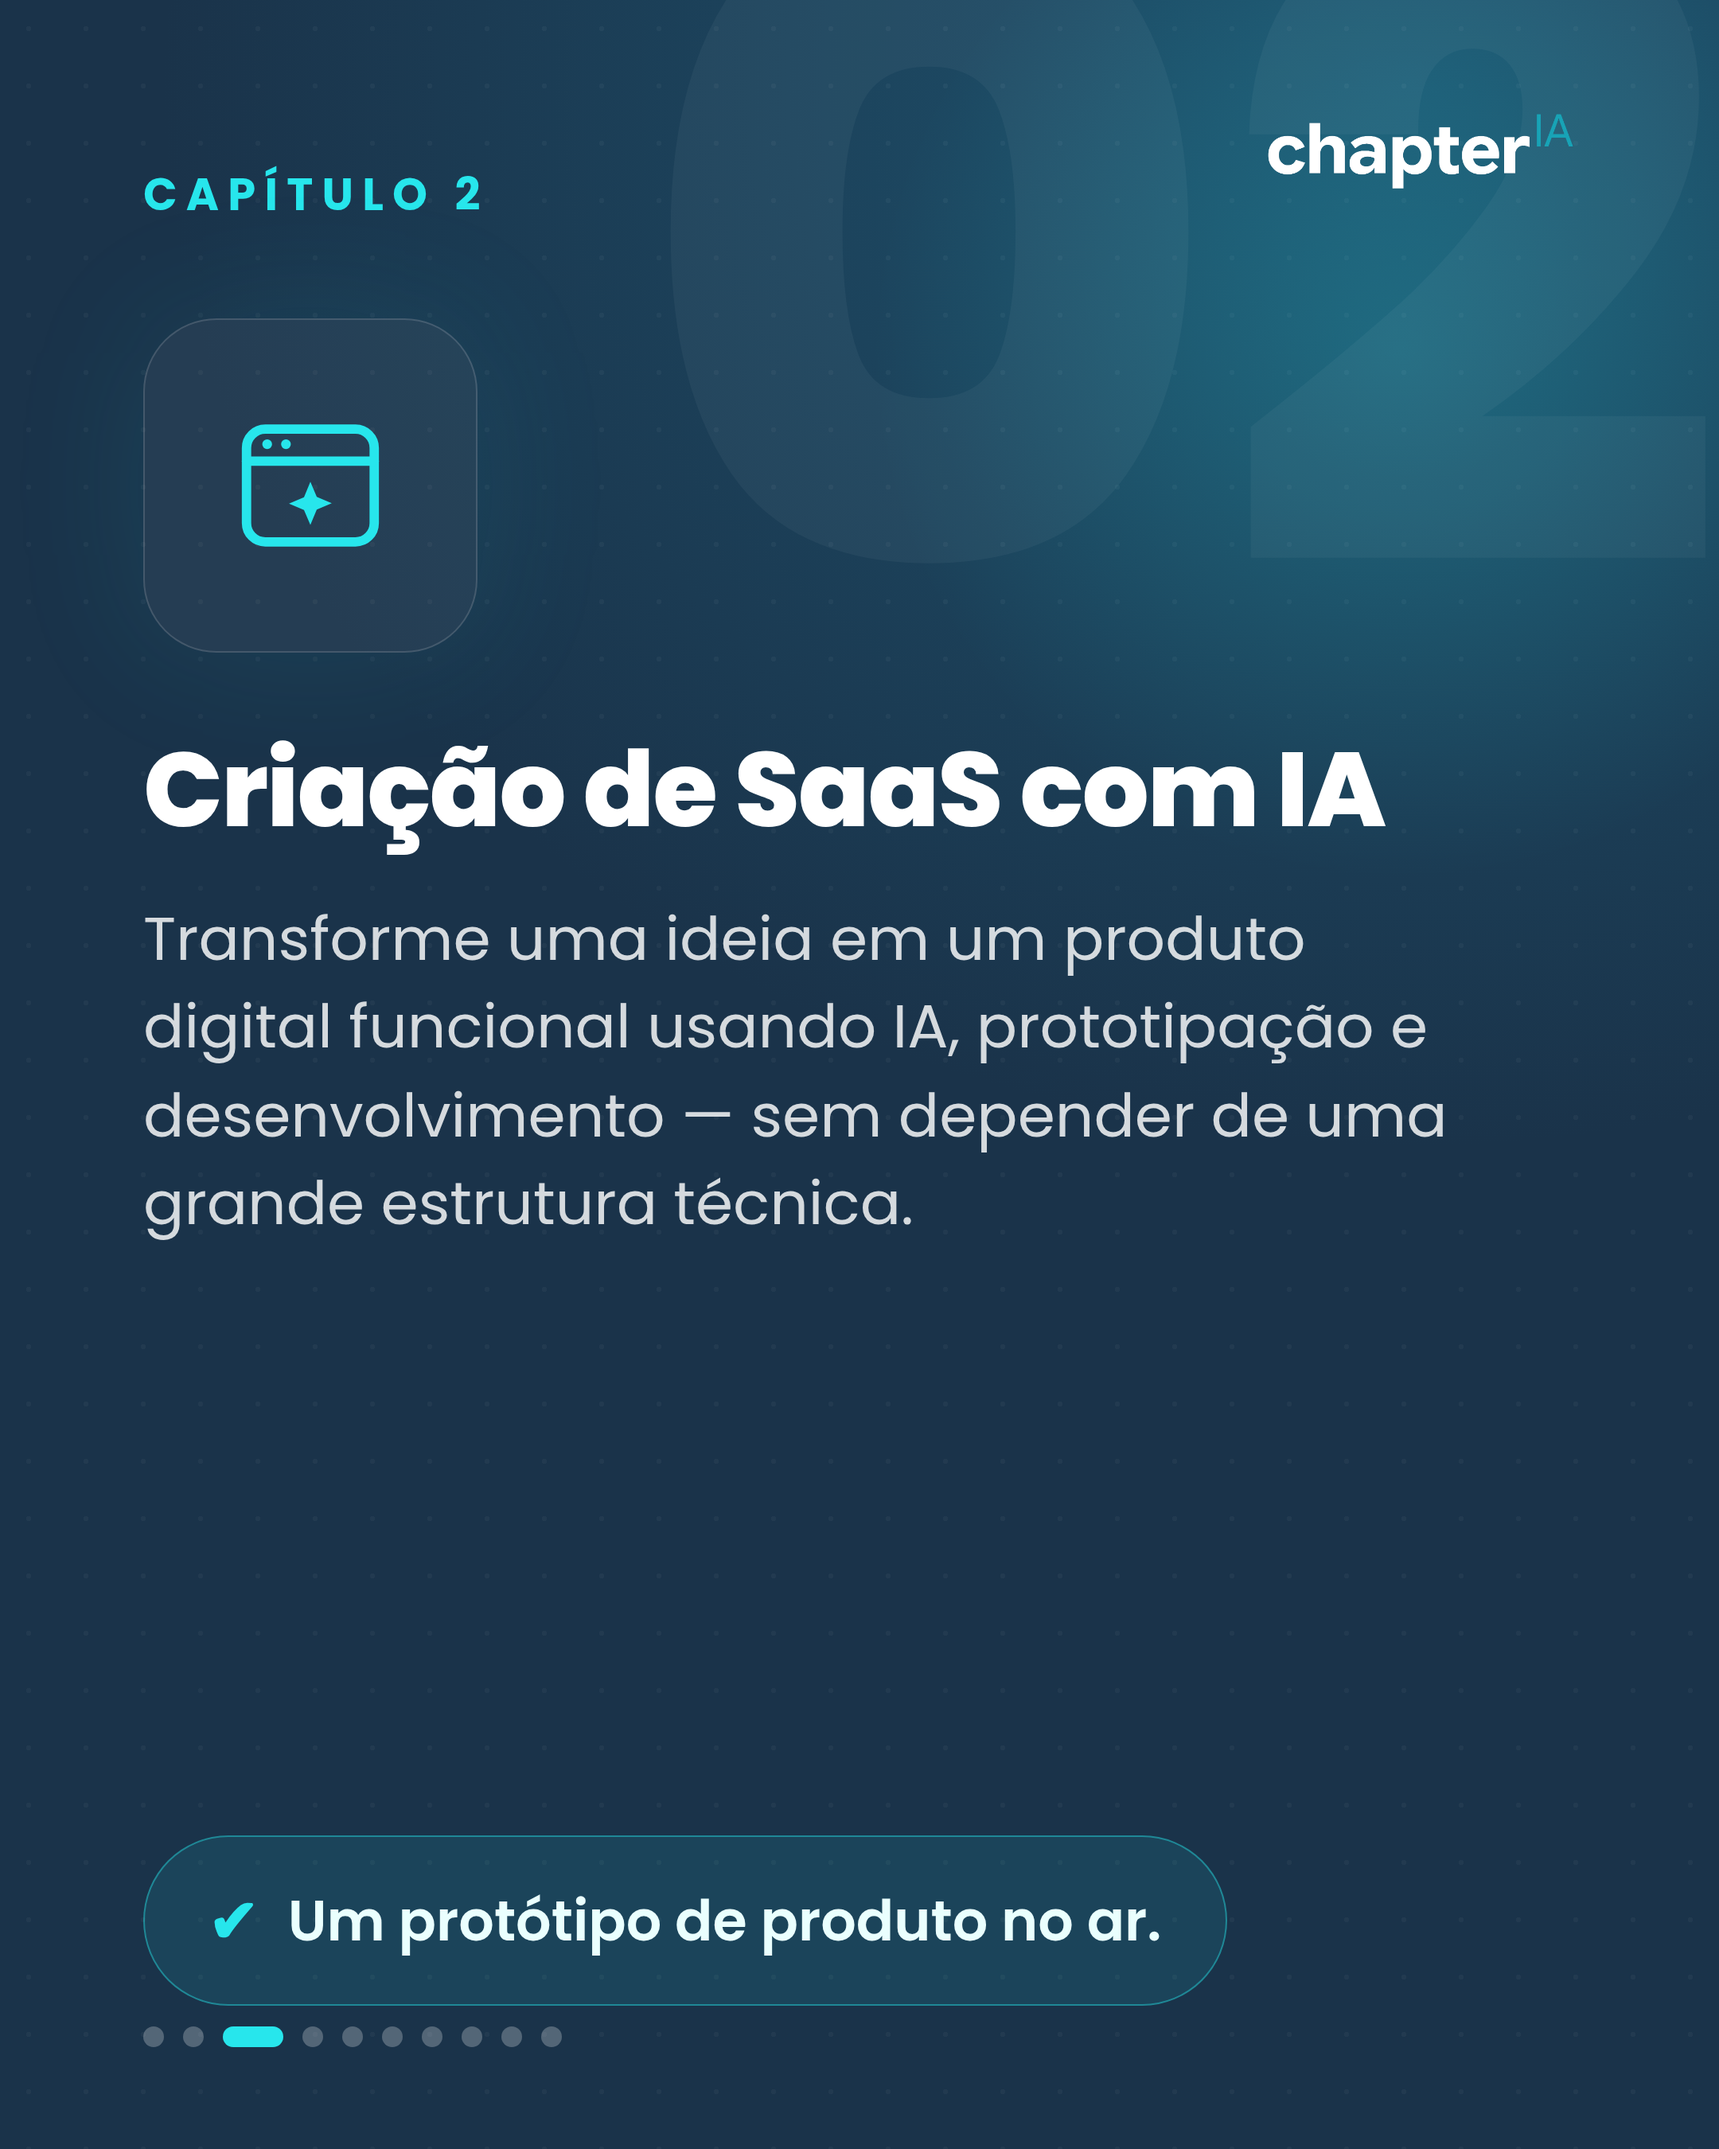
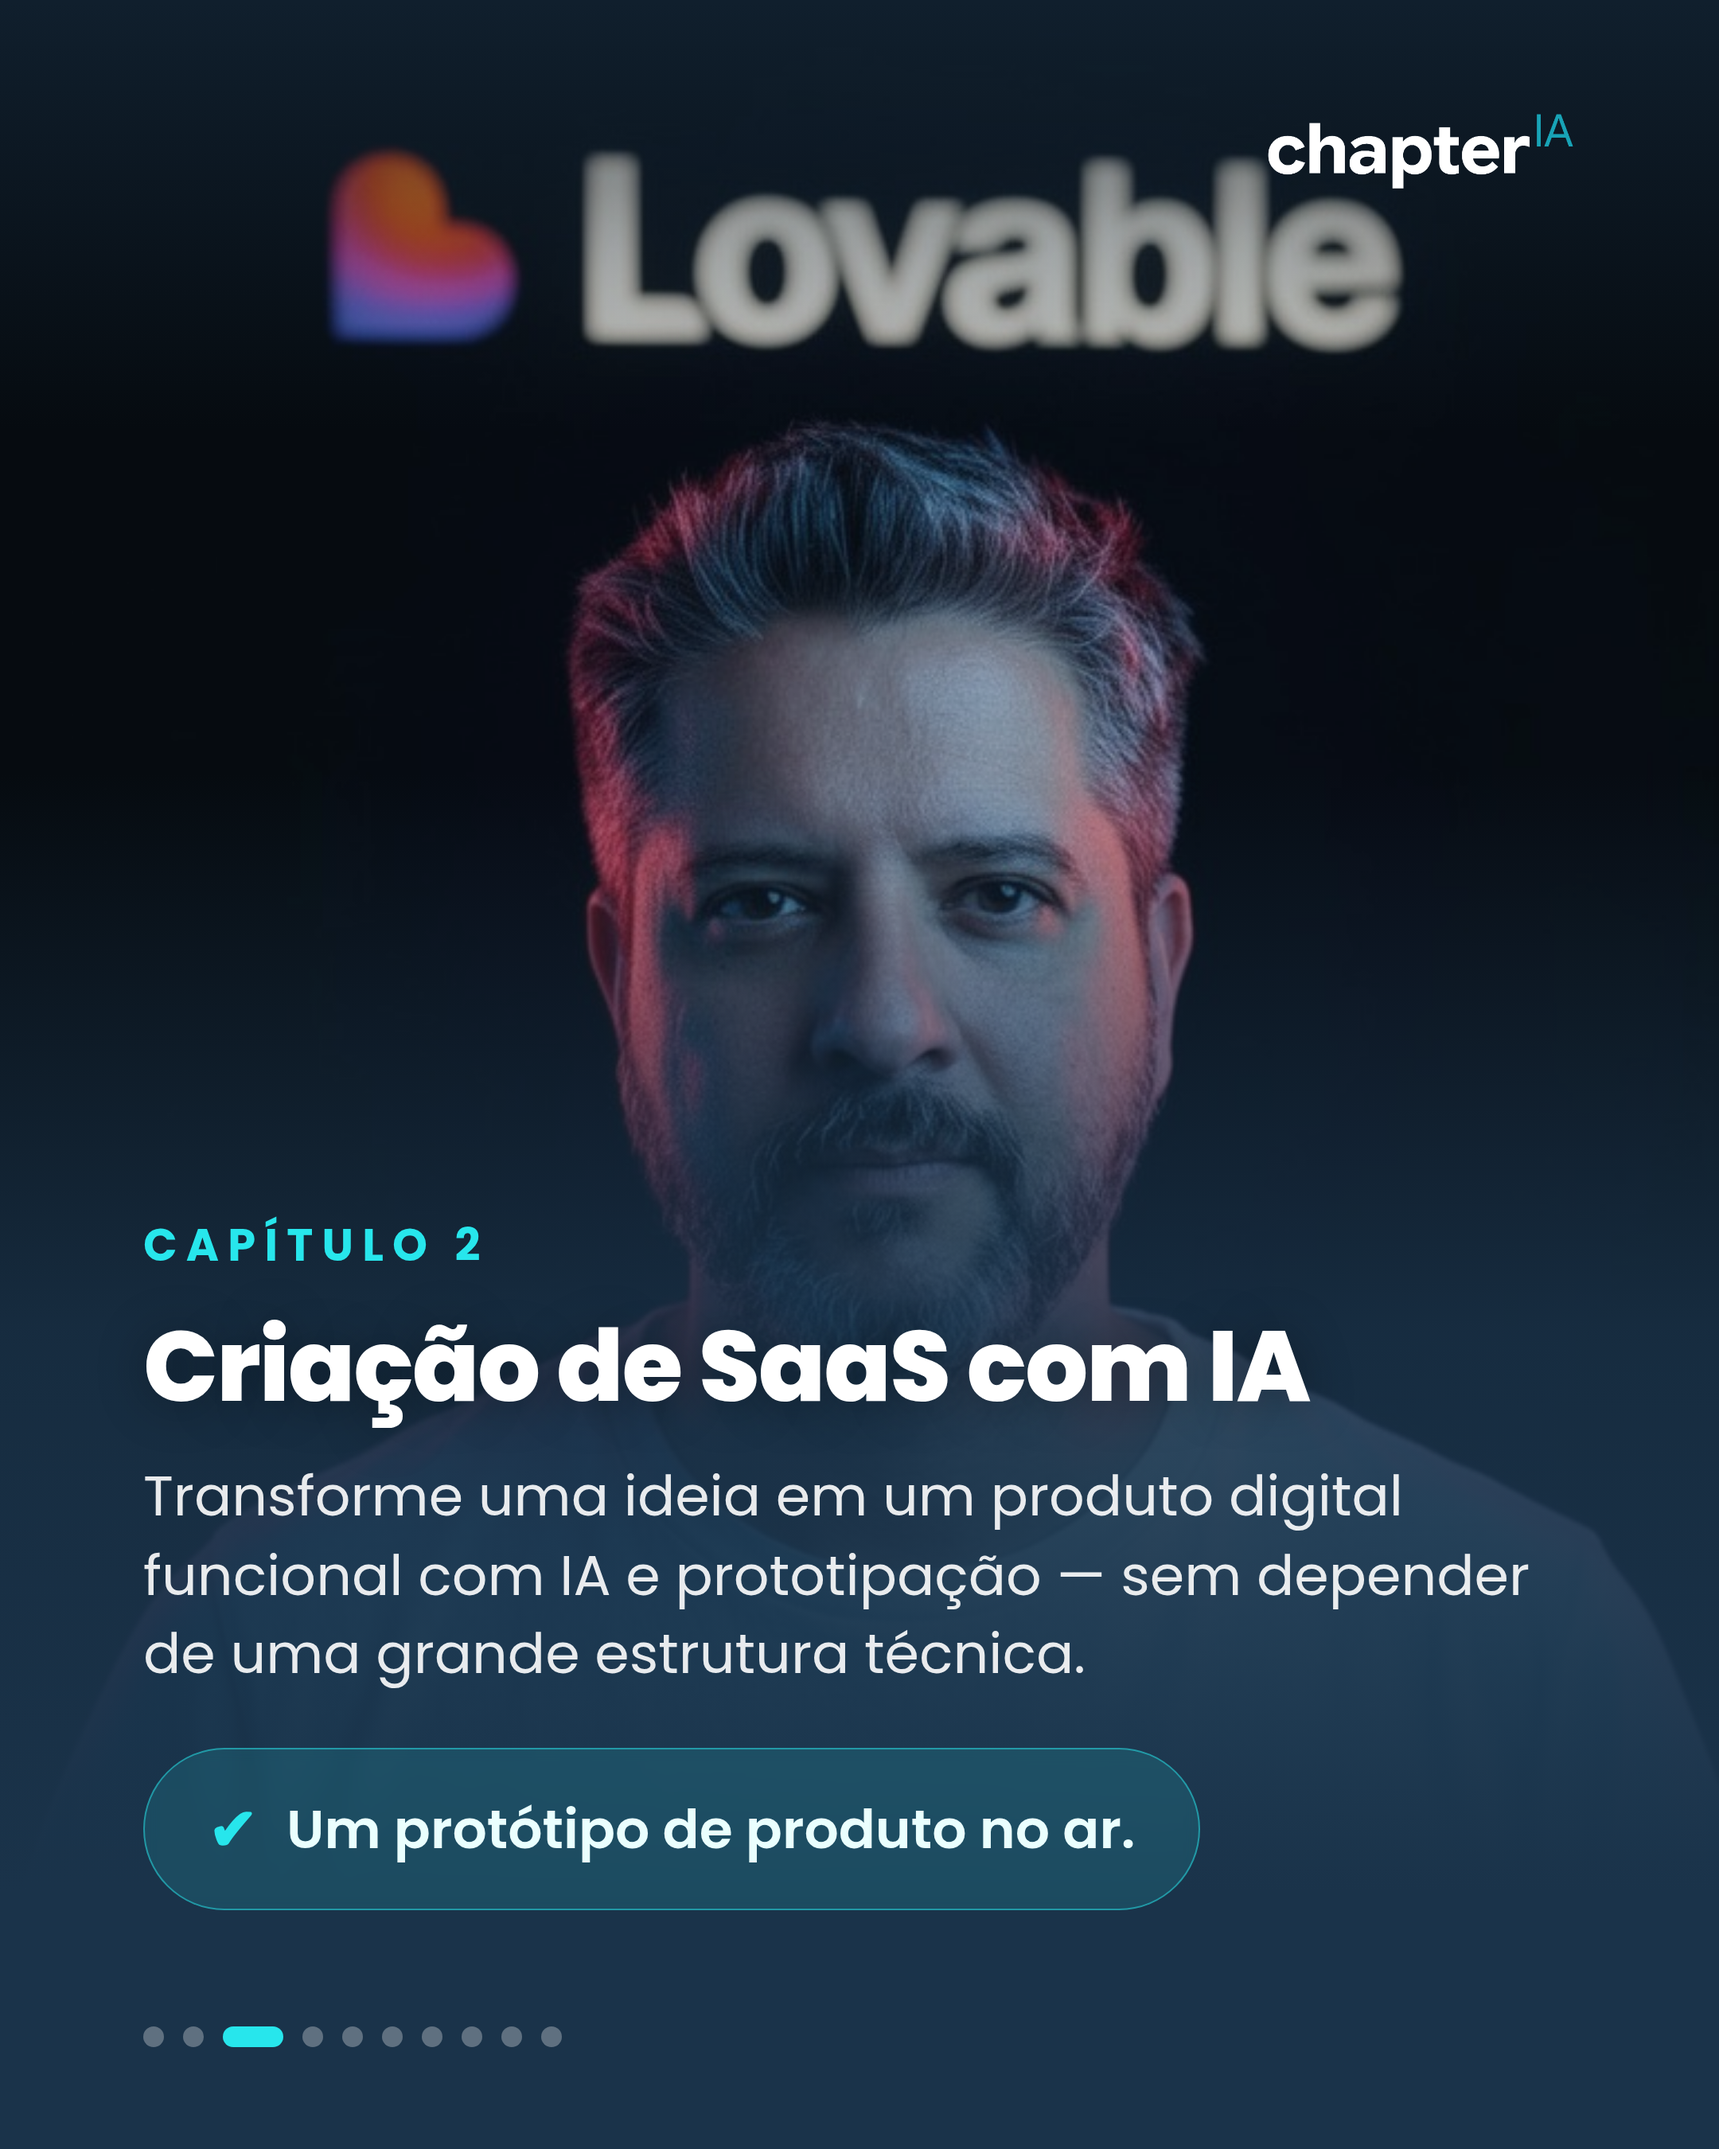
Refaz Carrossel #02: capitulos e bonus com imagens tematicas full-bleed
- Substitui os slides de icone por imagens fornecidas (full-bleed + degrade
  Azul Petroleo na base + texto), mesmo tratamento do 'Quem conduz'
- Imagens fonte versionadas em fontes-imagens/
- Capa e CTA mantidos; doc atualizado com mapa de imagens e alerta cap5/cap6

Claude-Session: https://claude.ai/code/session_01TRRjPqLtPPeRw63FEdxucr

diff --git a/social/posts/carrossel-02-capitulos.md b/social/posts/carrossel-02-capitulos.md
@@ -4,11 +4,20 @@
 (`c2_01.png` … `c2_10.png`). Objetivo: mostrar que a ChapterIA é um **método
 estruturado** (não só um curso), despertando interesse em conhecer pela bio.
 
-> **Direção de arte:** dark premium (Azul Petróleo→Profundo), textura de grid
-> pontilhado, glow ciano, ícones minimalistas de traço desenhados por tema,
-> muito respiro. Fonte de render: **Poppins** (stand-in da Google Sans — a arte
-> final oficial deve usar Google Sans). Descrições **extraídas do site oficial**,
-> mesma ordem, sem inventar módulos.
+> **Direção de arte (v2 — imagens):** capa e CTA em dark premium (Petróleo→Profundo);
+> os slides de capítulo e o bônus usam **imagens temáticas full-bleed** (fornecidas
+> pelo Felipe) com degradê Azul Petróleo na base + texto por cima — mesmo
+> tratamento do slide "Quem conduz". Fonte de render: **Poppins** (stand-in da
+> Google Sans — arte final oficial deve usar Google Sans). Descrições **do site
+> oficial**, mesma ordem, sem inventar módulos.
+>
+> **Imagens fonte:** [`assets/carrossel-02-capitulos/fontes-imagens/`](assets/carrossel-02-capitulos/fontes-imagens/)
+> (cap1 workflow · cap2 Lovable · cap3 ciborgue · cap4 prompt · cap5 persona ·
+> cap6 perfil IG · cap7 site ChapterIA · bônus Meta).
+>
+> ⚠ **A conferir:** seguindo a ordem enviada, a **persona jovem** ficou no
+> Cap 5 (Social Media) e o **perfil do Instagram** no Cap 6 (Influencer). Pelo
+> tema podem estar trocados — trocar cap5/cap6 é 1 ajuste se o Felipe confirmar.
 
 ## Copy por slide
 
